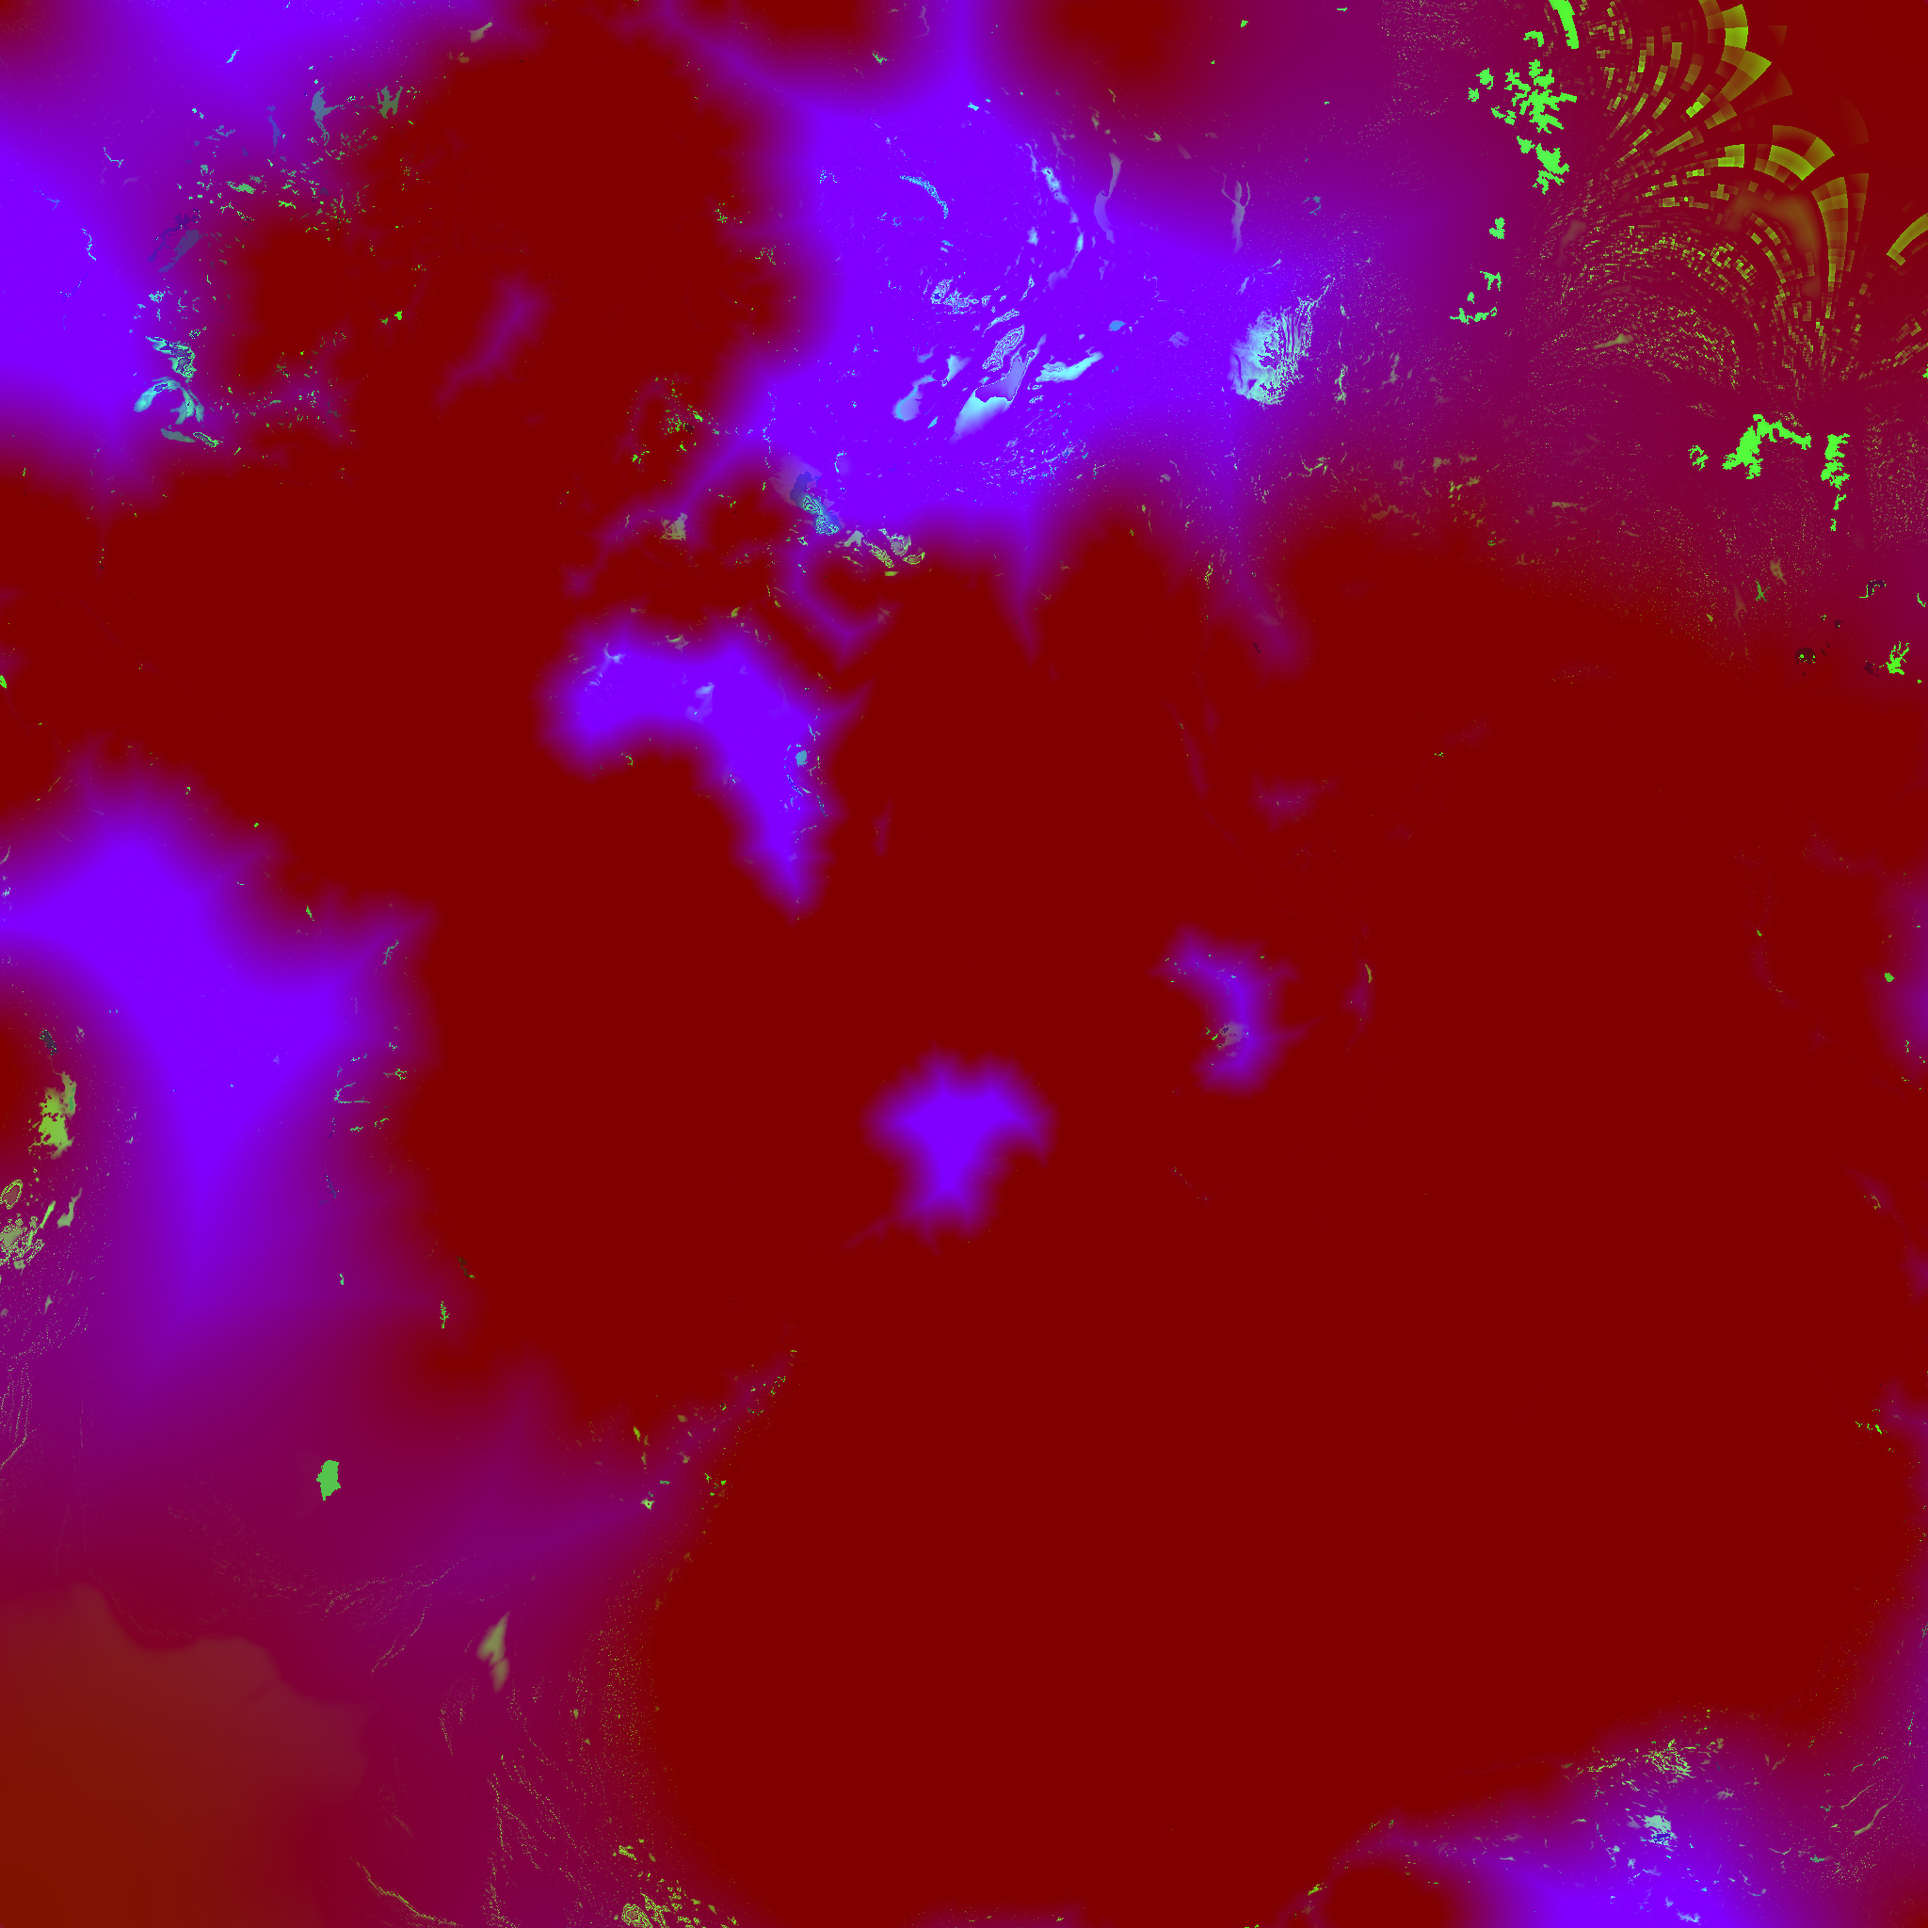
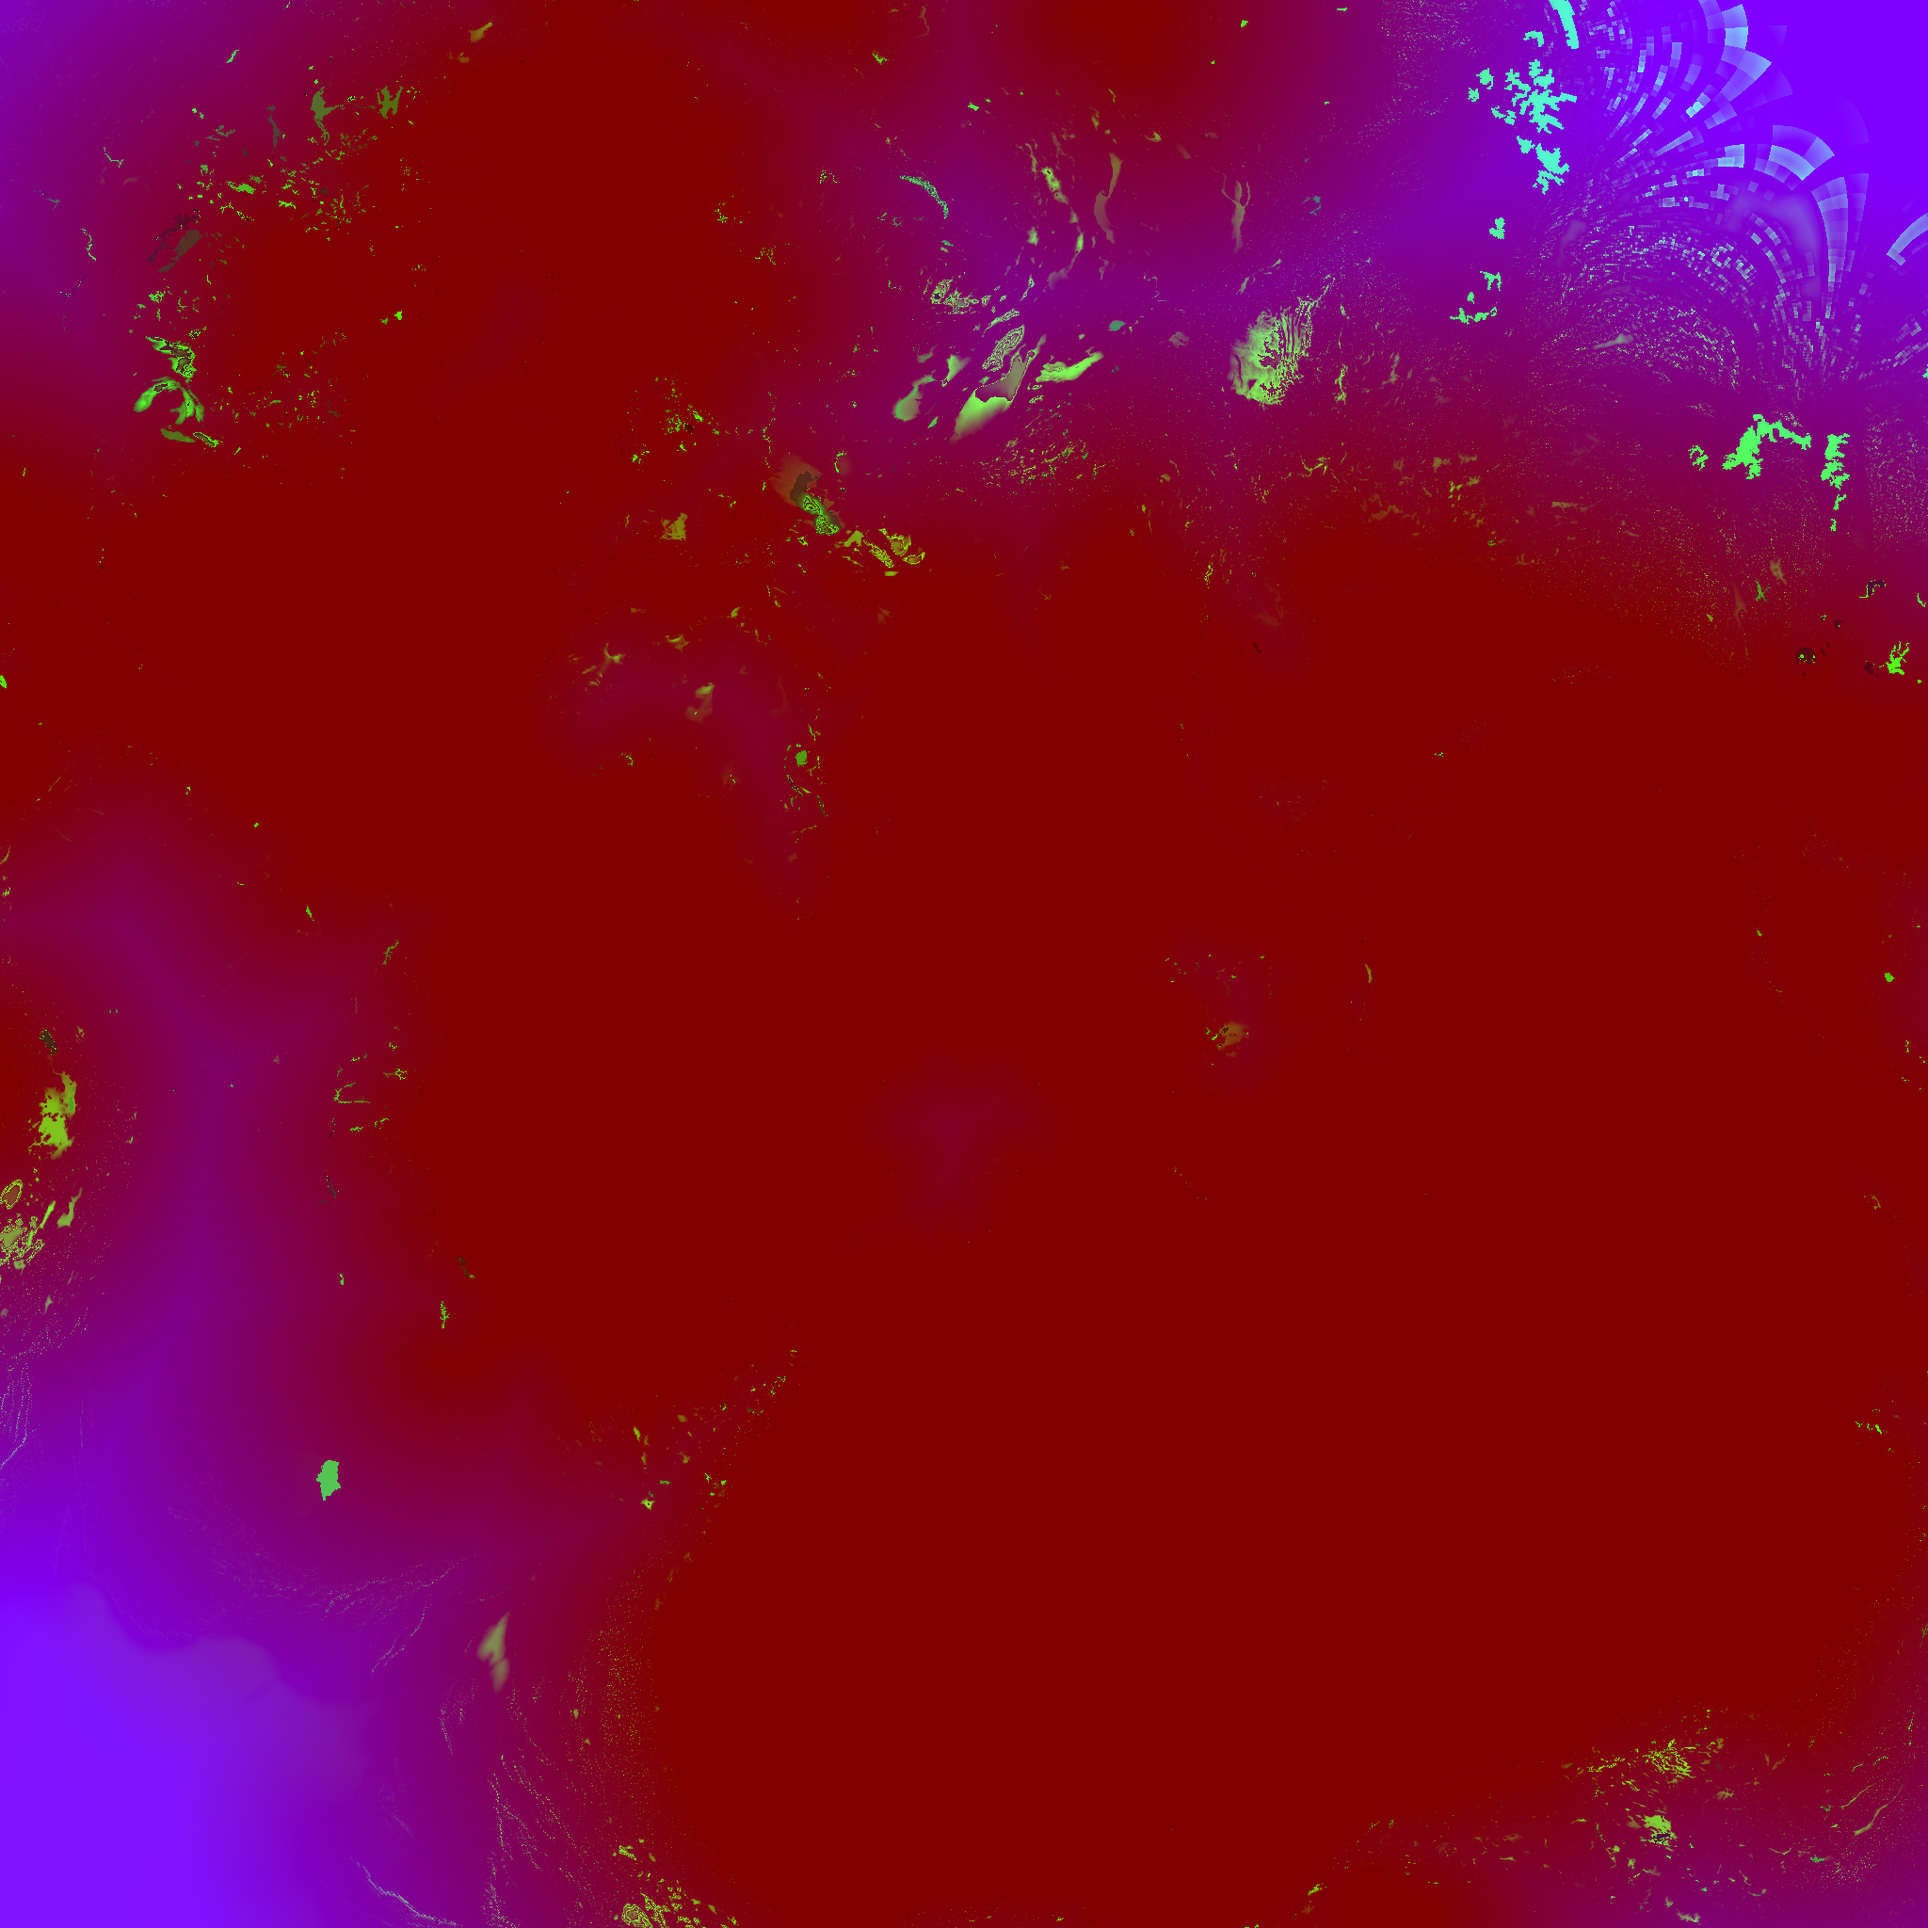
Fade land by map distance, not km, so Africa stays whole
The edge fade measured km inland, so Africa's interior (>300 km from the
coast) dissolved into the cream paper and read as ice. The reference map
fades by distance on the map instead: compact continents near the centre
(Africa, Australia, Arabia) stay fully coloured, while the inflated
interiors near the square's edges dissolve. Distance is now stored in
per-mille of map width and the fade runs from 36 to 55.

Claude-Session: https://claude.ai/code/session_016SE1txwf9nCPSGxEPvJFG6

diff --git a/src/shaders.ts b/src/shaders.ts
@@ -132,10 +132,13 @@ void main(){
   col = mix(col, vec3(1.0), uGrat * graticule(vSphere));
 
   // dissolve land into paper with distance inland from today's ocean
-  float nz = (fbm(vUv * 34.0) - 0.5) * 150.0 + (fbm(vUv * 180.0) - 0.5) * 60.0;
+  // distance is per-mille of the map width, so compact continents near the
+  // centre (Africa, Australia) stay whole while the inflated interiors near
+  // the square's edges dissolve, as on the reference map
+  float nz = (fbm(vUv * 34.0) - 0.5) * 14.0 + (fbm(vUv * 180.0) - 0.5) * 5.0;
   float dist = d.a + nz;
-  float landA = 1.0 - smoothstep(60.0, 300.0, dist);
-  float seaA = 1.0 - smoothstep(600.0, 1000.0, dist);
+  float landA = 1.0 - smoothstep(36.0, 55.0, dist);
+  float seaA = 1.0 - smoothstep(70.0, 110.0, dist);
   landA = max(landA, smoothstep(0.35, 0.8, d.b)); // ice sheets stay white, as in the reference map
   float a = mix(landA, seaA, water * (1.0 - lake)); // lakes fade with the land
   a = mix(1.0, a, uEdge);

diff --git a/src/gpu.ts b/src/gpu.ts
@@ -52,7 +52,7 @@ export function decodeData(renderer: THREE.WebGLRenderer, d: MapData): THREE.Web
       uFlood: { value: flood },
       uOffset: { value: d.meta.elevationOffset },
       uFloodBias: { value: d.meta.floodBias ?? 0 },
-      uDistUnit: { value: d.meta.distUnitKm },
+      uDistUnit: { value: d.meta.distUnit },
       uSize: { value: n },
     },
     depthTest: false,

diff --git a/src/data.ts b/src/data.ts
@@ -6,7 +6,7 @@ export interface Meta {
   elevationOffset: number;
   floodBias?: number;
   lakeLevel?: number;
-  distUnitKm: number;
+  distUnit: number; // per-mille of map width
   lonlatGrid: number;
   areaGrid: number;
   source: string;

diff --git a/tools/preprocess.py b/tools/preprocess.py
@@ -22,7 +22,10 @@ Outputs (all in Spilhaus map space, row 0 = top / +y, column 0 = left / -x):
                          compresses far better than the raw level; present-day
                          lakes have flood = -11000, i.e. always water),
                          B = distance inland
-                         from the present-day ocean in units of DIST_UNIT_KM
+                         from the present-day ocean, measured on the map, in
+                         per-mille of the map width (the reference map fades
+                         by map distance: Africa stays whole, inflated
+                         interiors near the square's edges dissolve)
   lonlat.bin        513x513 float32 (lon, lat) pairs at grid vertices
   area.bin          512x512 float32 relative true area per map cell (max = 1)
   stats.json        cumulative "fraction above water" table + hypsometric
@@ -44,7 +47,7 @@ from scipy import ndimage
 from skimage.morphology import reconstruction
 
 OFFSET = 11000  # metres added before uint16 packing
-DIST_UNIT_KM = 4.0
+DIST_UNIT = 1.0  # per-mille of map width per stored unit
 SPILHAUS = "+proj=spilhaus +R=6371008.8"
 GRID = 513  # lon/lat lookup vertices per side
 LAKE = -11000.0  # flood level marking present-day lakes (always water)
@@ -500,12 +503,8 @@ def main():
     area512.tofile(os.path.join(args.out, "area.bin"))
 
     log("edge distance")
-    # km per map pixel from local area scale
-    km_per_px_cell = np.sqrt(area_f.reshape(512, M // 512, 512, M // 512).sum(axis=(1, 3)) / (N / 512) ** 2) * 6371.0
-    km_per_px = np.kron(km_per_px_cell, np.ones((N // 512, N // 512), np.float32))
     dist_px = ndimage.distance_transform_edt(~ocean_m)
-    dist_km = dist_px * km_per_px
-    dist_b = np.clip(np.round(dist_km / DIST_UNIT_KM), 0, 255).astype(np.uint8)
+    dist_b = np.clip(np.round(dist_px / N * 1000.0 / DIST_UNIT), 0, 255).astype(np.uint8)
 
     log("lon/lat lookup grid")
     gxv = np.linspace(-HALF, HALF, GRID) * (1 - 1e-12)
@@ -557,7 +556,8 @@ def main():
         "floodEncoding": "flood - elevation + floodBias; lakes have flood = lakeLevel",
         "floodBias": FLOOD_BIAS,
         "lakeLevel": LAKE,
-        "distUnitKm": DIST_UNIT_KM,
+        "distUnit": DIST_UNIT,
+        "distEncoding": "distance inland from today's ocean in per-mille of map width",
         "lonlatGrid": GRID,
         "areaGrid": 512,
         "source": "ETOPO 2022 v1 60 arc-second (surface + bed), NOAA NCEI",
